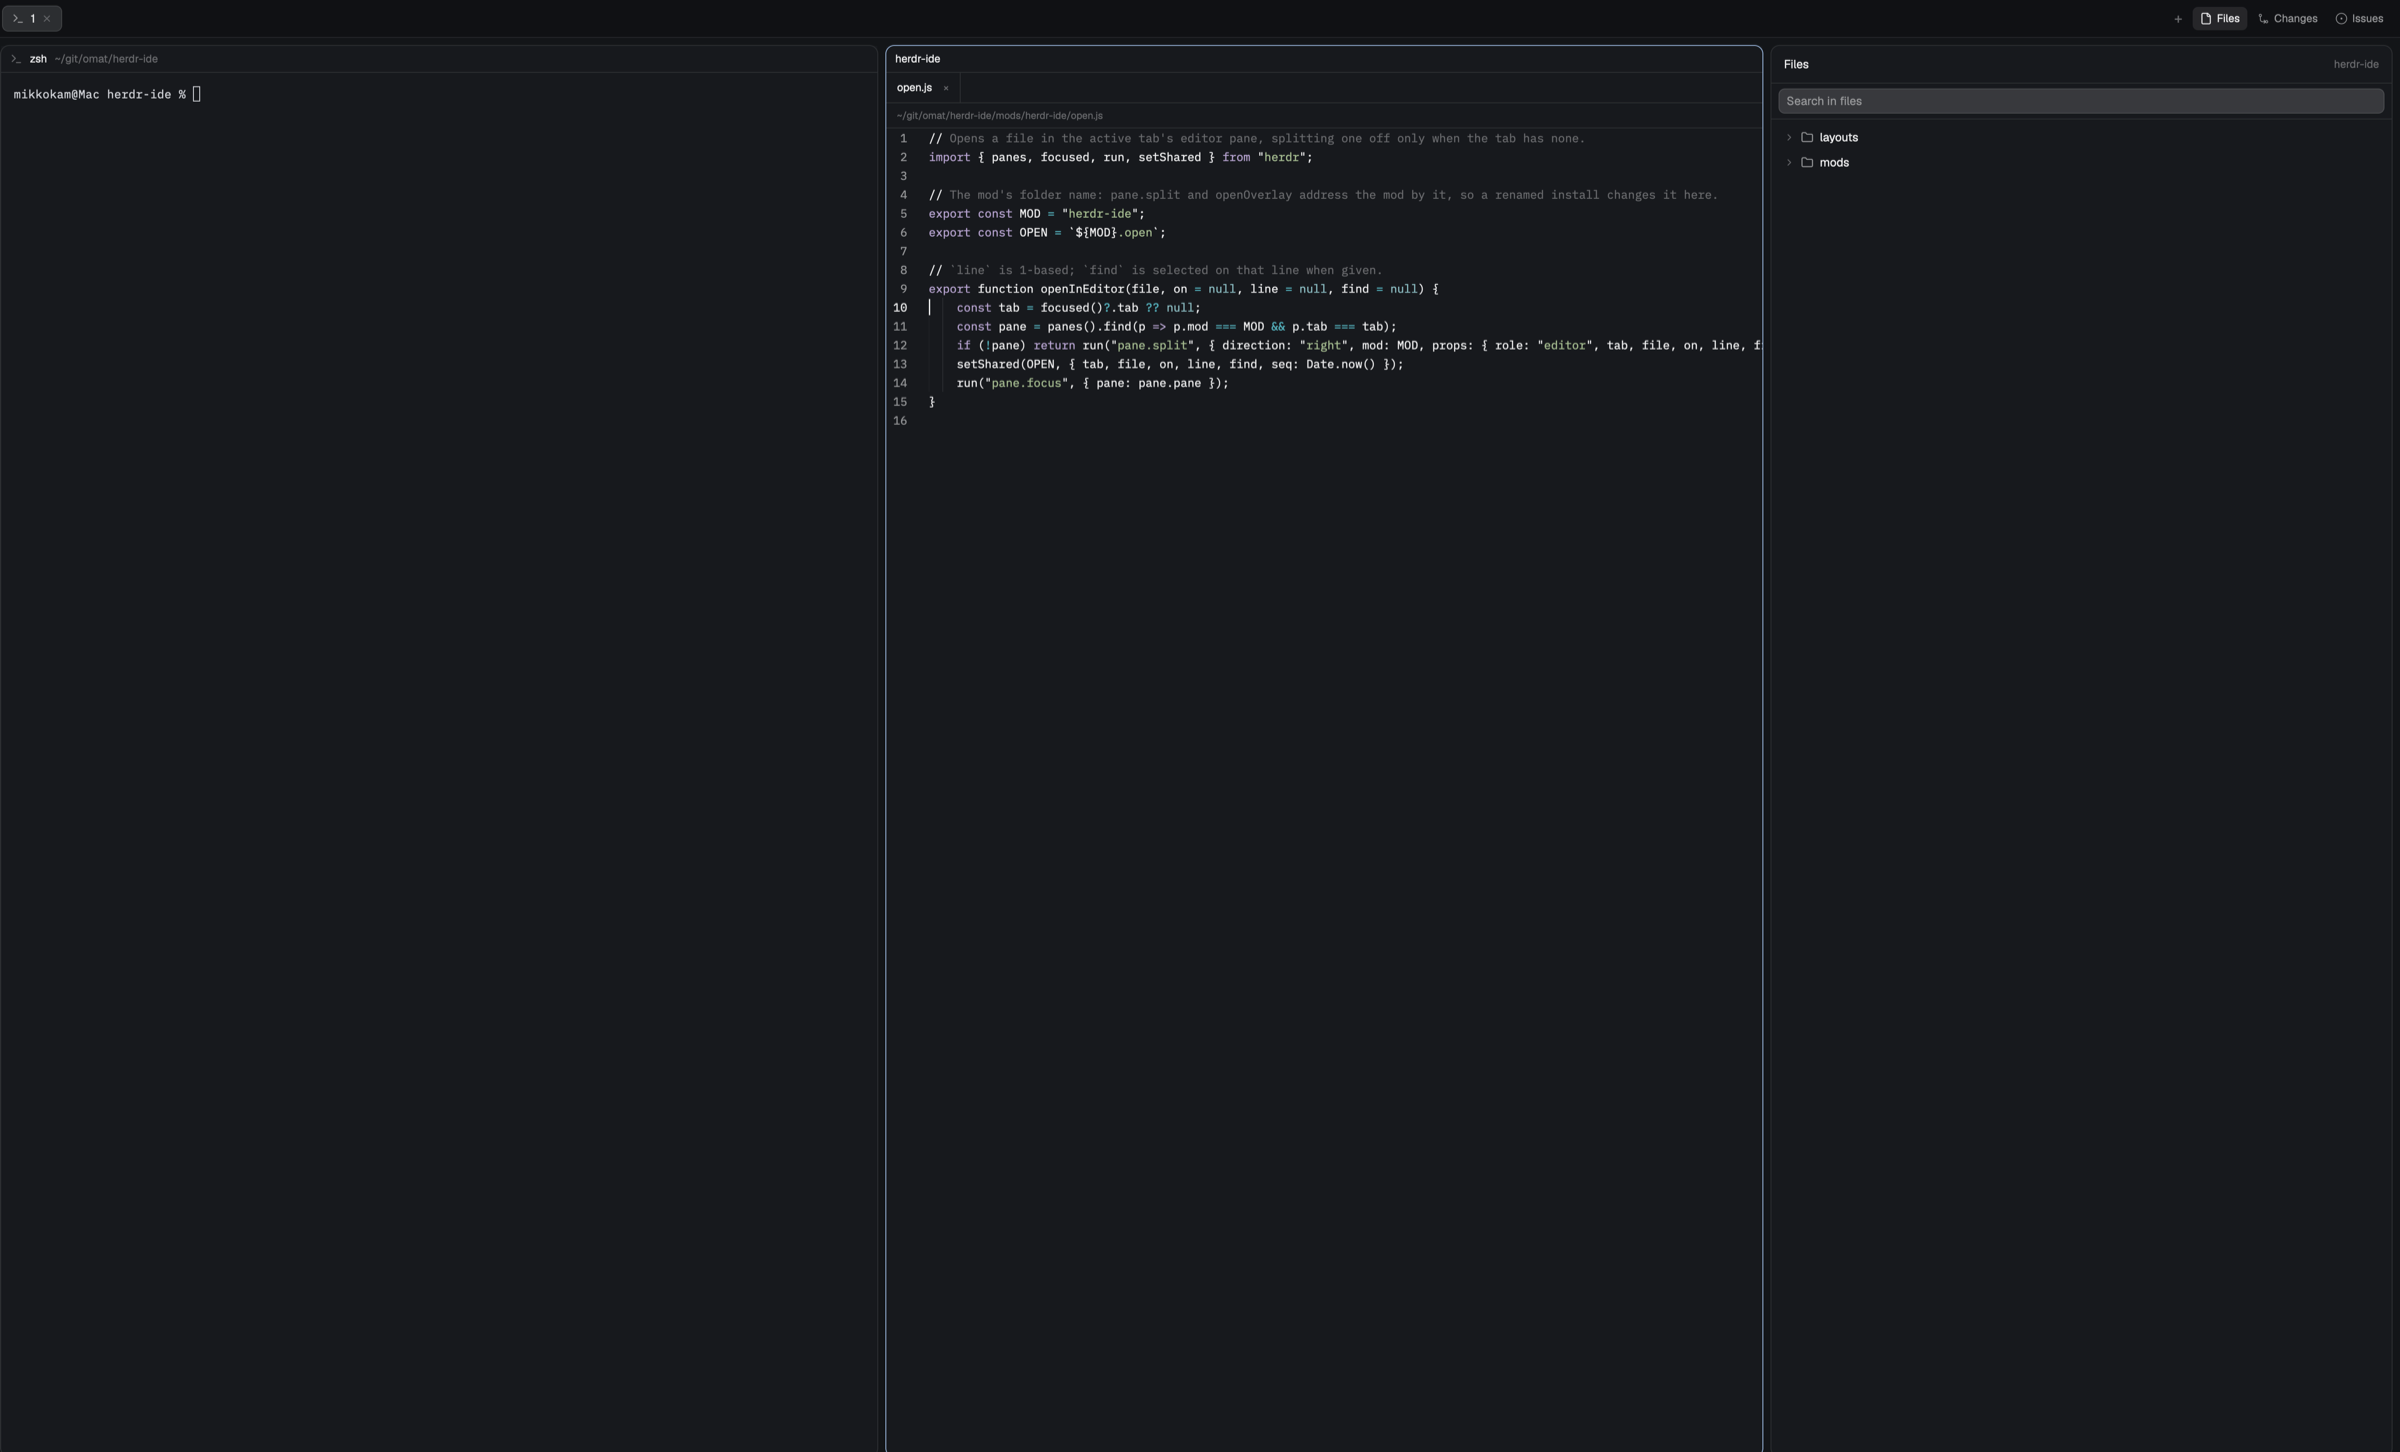
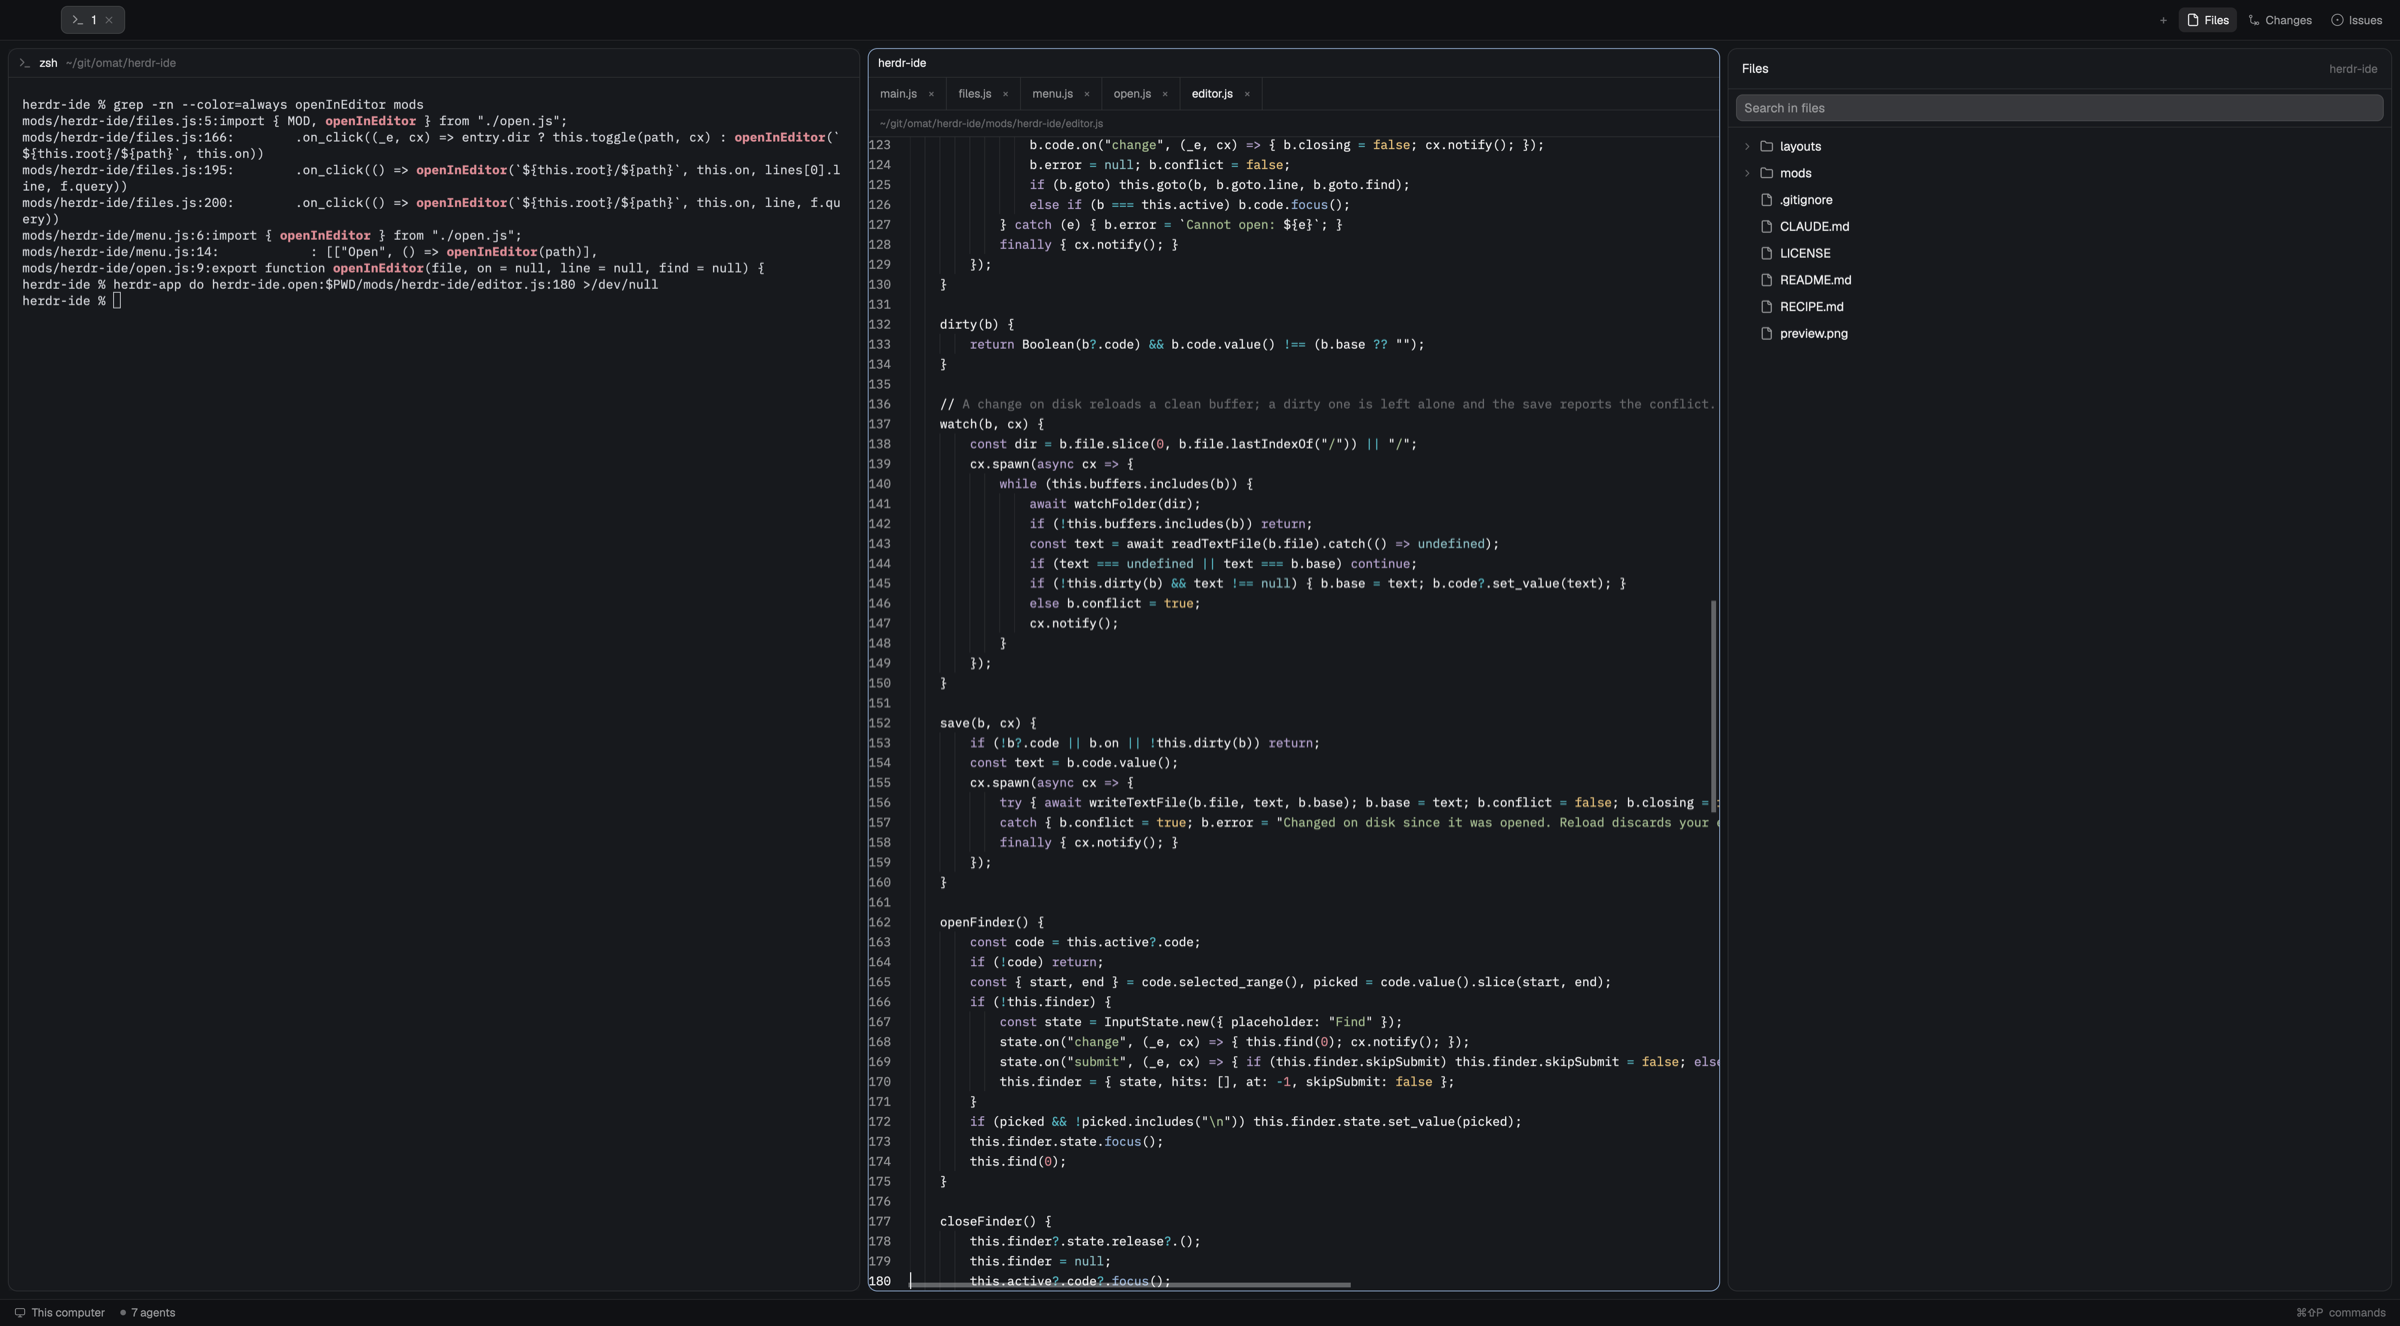
feat: herdr-app do herdr-ide.open:<path>[:<line>] opens a file in the shown editor
Lets scripts and agents show a file without a click. New preview with five files open and the sidebar hidden.

diff --git a/mods/herdr-ide/editor.js b/mods/herdr-ide/editor.js
@@ -2,7 +2,7 @@
 // later files arrive through shared(OPEN). Files on another machine open read-only, because writeTextFile writes only on this computer.
 import { div } from "gpui-kit";
 import { v_flex, h_flex, Editor, EditorState, InputState, Input, TextView } from "gpui-base";
-import { props, shared, readTextFile, writeTextFile, watchFolder, theme, settings, home, checking } from "herdr";
+import { props, shared, nextCommand, readTextFile, writeTextFile, watchFolder, theme, settings, home, checking } from "herdr";
 import { OPEN } from "./open.js";
 
 const LANG = { ts: "js", tsx: "js", mts: "js", cts: "js", jsx: "js", mjs: "js", toml: "yaml", jsonc: "json", svelte: "html", vue: "html", md: "markdown", mdx: "markdown" };
@@ -31,6 +31,14 @@ export class EditorPane {
         for (const f of saved?.files ?? []) this.open(f.file, f.on ?? null, cx, { select: false });
         this.select(this.buffers[saved?.active] ?? this.buffers[0] ?? null);
         if (p.file) this.open(p.file, p.on ?? null, cx, { line: p.line, find: p.find });
+        // `herdr-app do herdr-ide.open:<path>[:<line>]` opens a local file in the shown editor, for scripts and agents.
+        if (!checking()) cx.spawn(async cx => {
+            for (;;) {
+                const c = await nextCommand();
+                const m = /^open:(.+?)(?::(\d+))?$/.exec(c);
+                if (m) { this.open(m[1], null, cx, { line: m[2] ? Number(m[2]) : null }); cx.notify(); }
+            }
+        });
     }
 
     storageKey() {

diff --git a/RECIPE.md b/RECIPE.md
@@ -19,6 +19,7 @@ A file tree with project search in Herdr's right panel, and a tabbed editor pane
 - Cmd-F opens the find bar, seeded with the selection when it is on one line. Typing selects the first match at or after the cursor; Enter or Cmd-G goes to the next, Shift-Enter or Cmd-Shift-G to the previous, wrapping; Esc closes the bar and returns to the editor.
 - Cmd-S saves. A file changed on disk reloads when the buffer is clean; when it is dirty, Save reports the conflict and Reload discards the edits. Closing an unsaved tab asks for a second close. Middle-click closes a tab.
 - Files on another machine open read-only, since `writeTextFile` writes only on this computer.
+- `herdr-app do herdr-ide.open:<path>` or `herdr-ide.open:<path>:<line>` opens a local file in the shown editor pane, so a script or an agent can show you a file.
 - Each editor pane remembers its open files per Herdr tab in `localStorage`.
 - While the editor has the keyboard, the tree stays on the last terminal's folder.
 
@@ -26,7 +27,7 @@ A file tree with project search in Herdr's right panel, and a tabbed editor pane
 
 - **Mod** `mods/herdr-ide/`, one mod in three roles chosen by `props.role`: `files` (the layout block), `editor` (`pane.split`), `menu` (a popup). `files.js` is a `mod.clone` of Herdr's `files` (0.1.16) with search, the open routing and the menu added; `editor.js` started from Herdr's `editor` (0.1.16).
 - **Layout** `layouts/main-ide.json`: Herdr's `main` (0.1.16) with the `files` block's content set to `{ "mod": "herdr-ide", "props": { "role": "files" } }`.
-- **herdr**: `panes`, `focused`, `spaces`, `run` (`pane.split`, `pane.focus`), `shared` / `setShared` (`herdr-ide.open`), `openOverlay`, `closeOverlay`, `exec`, `readTextFile`, `writeTextFile`, `watchFolder`.
+- **herdr**: `panes`, `focused`, `spaces`, `run` (`pane.split`, `pane.focus`), `shared` / `setShared` (`herdr-ide.open`), `nextCommand` (`open:`), `openOverlay`, `closeOverlay`, `exec`, `readTextFile`, `writeTextFile`, `watchFolder`.
 
 ## Watch out
 
@@ -34,6 +35,8 @@ A file tree with project search in Herdr's right panel, and a tabbed editor pane
 - To use your own layout instead of `main-ide`, set its `files` block's content as above.
 - A mod pane cannot set its header title, so the editor pane's header reads `herdr-ide`.
 - `herdr-app ls` does not list mod panes.
+- `herdr-ide.open` reaches only an editor pane that is shown; with none in the shown tab, it does nothing.
+- Search runs `rg` from the app's own PATH: a Homebrew `rg` the login shell finds is used, a shell alias or function is not.
 - "Open in Zed" runs `open -a Zed`; it does nothing without Zed installed, and nothing on Linux or Windows.
 
 ## Done when
@@ -43,3 +46,4 @@ A file tree with project search in Herdr's right panel, and a tabbed editor pane
 - A click on a file splits off one editor pane; a second file opens as a second tab in it.
 - Typing a word in the search field lists matches; a click on one opens the file with the match selected.
 - Cmd-F, a query and Enter step through matches; Cmd-S writes the file.
+- `herdr-app do herdr-ide.open:$PWD/README.md:3` with an editor pane shown opens README.md at line 3.

diff --git a/README.md b/README.md
@@ -1,6 +1,6 @@
 # herdr-ide
 
-An editor for the [Herdr](https://herdr.dev) desktop app: a file tree with project search in the right panel, and a tabbed editor pane beside your terminals. Click a file to open it, Cmd-F to find, Cmd-S to save. It uses the mouse and has no language servers.
+An editor for the [Herdr](https://herdr.dev) desktop app: a file tree with project search in the right panel, and a tabbed editor pane beside your terminals. Click a file to open it, Cmd-F to find, Cmd-S to save; scripts and agents can open a file with `herdr-app do herdr-ide.open:<path>[:<line>]`. It uses the mouse and has no language servers.
 
 ![herdr-ide](preview.png)
 
